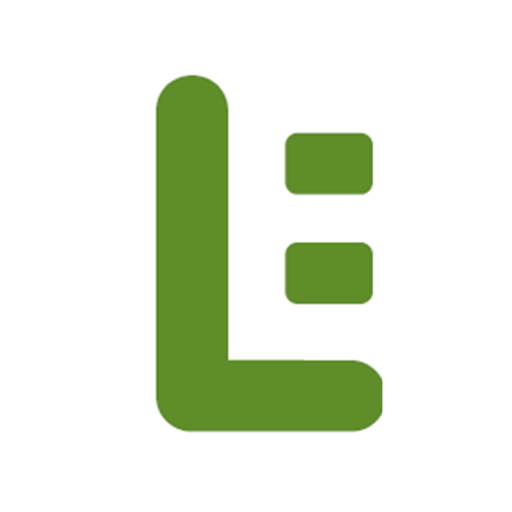
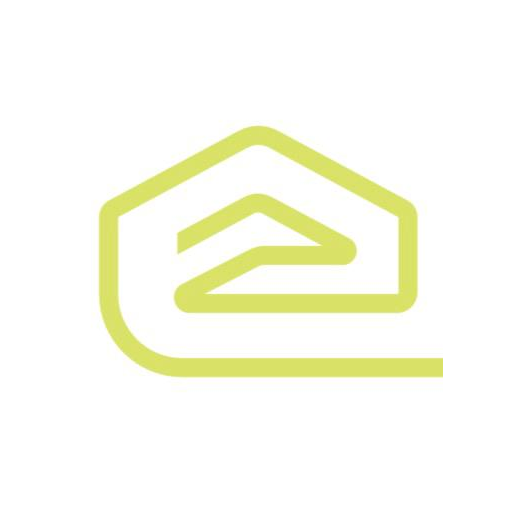
Improve project gallery and apply new brand assets

Changed region(s): [[0.1875, 0.125, 0.875, 0.8438]]

diff --git a/components/projects/project-detail-view.tsx b/components/projects/project-detail-view.tsx
@@ -4,7 +4,7 @@ import { useQuery, useMutation, useQueryClient } from '@tanstack/react-query';
 import { api } from '@/lib/api';
 import { useState, useRef } from 'react';
 import Link from 'next/link';
-import { ArrowLeft, Upload, FileText, ImageIcon, Users, Plus, Trash2, UserPlus, Package, Edit2, MapPin, Navigation } from 'lucide-react';
+import { ArrowLeft, Upload, FileText, ImageIcon, Users, Plus, Trash2, UserPlus, Package, Edit2, MapPin, Navigation, Download, Maximize2, X } from 'lucide-react';
 import { format, parseISO } from 'date-fns';
 import { de } from 'date-fns/locale';
 import toast from 'react-hot-toast';
@@ -18,6 +18,7 @@ interface ProjectNote {
 interface ProjectImage {
   id: string;
   url: string;
+  storagePath?: string | null;
 }
 
 interface ProjectMaterial {
@@ -42,6 +43,7 @@ export function ProjectDetailView({ projectId }: { projectId: string }) {
   const [isMemberModalOpen, setIsMemberModalOpen] = useState(false);
   const [isMaterialModalOpen, setIsMaterialModalOpen] = useState(false);
   const [editingMaterial, setEditingMaterial] = useState<ProjectMaterial | null>(null);
+  const [selectedImage, setSelectedImage] = useState<ProjectImage | null>(null);
   
   const { data: project, isLoading: projectLoading } = useQuery<Project>({ 
     queryKey: ['project', projectId], 
@@ -70,11 +72,12 @@ export function ProjectDetailView({ projectId }: { projectId: string }) {
   });
 
   const imageMutation = useMutation({
-    mutationFn: (url: string) => api.addProjectImage(projectId, url),
+    mutationFn: (file: File) => api.addProjectImage(projectId, file),
     onSuccess: () => {
       queryClient.invalidateQueries({ queryKey: ['project', projectId] });
       toast.success('Bild hochgeladen');
-    }
+    },
+    onError: (error: Error) => toast.error(`Fehler beim Hochladen: ${error.message}`),
   });
 
   const removeMemberMutation = useMutation({
@@ -106,13 +109,34 @@ export function ProjectDetailView({ projectId }: { projectId: string }) {
   const handleFileUpload = (e: React.ChangeEvent<HTMLInputElement>) => {
     const file = e.target.files?.[0];
     if (!file) return;
-    const reader = new FileReader();
-    reader.onload = (event) => {
-      if (event.target?.result) {
-        imageMutation.mutate(event.target.result as string);
-      }
-    };
-    reader.readAsDataURL(file);
+    imageMutation.mutate(file);
+    e.target.value = '';
+  };
+
+  const handleImageDownload = async (image: ProjectImage, index: number) => {
+    try {
+      const response = await fetch(image.url);
+      if (!response.ok) throw new Error('Das Bild konnte nicht geladen werden.');
+      const blob = await response.blob();
+      const extensionByType: Record<string, string> = {
+        'image/jpeg': 'jpg',
+        'image/png': 'png',
+        'image/webp': 'webp',
+        'image/gif': 'gif',
+      };
+      const extension = extensionByType[blob.type] || 'jpg';
+      const safeProjectName = project.name.replace(/[^a-z0-9äöüß_-]+/gi, '-').replace(/^-|-$/g, '') || 'auftrag';
+      const objectUrl = URL.createObjectURL(blob);
+      const anchor = document.createElement('a');
+      anchor.href = objectUrl;
+      anchor.download = `${safeProjectName}-bild-${index + 1}.${extension}`;
+      document.body.appendChild(anchor);
+      anchor.click();
+      anchor.remove();
+      window.setTimeout(() => URL.revokeObjectURL(objectUrl), 0);
+    } catch (error) {
+      toast.error(error instanceof Error ? error.message : 'Fehler beim Herunterladen.');
+    }
   };
 
   const handleEditMaterial = (material: ProjectMaterial) => {
@@ -341,6 +365,7 @@ export function ProjectDetailView({ projectId }: { projectId: string }) {
                 disabled={imageMutation.isPending}
                 className="p-2 text-slate-400 hover:text-blue-600 hover:bg-blue-50 rounded-lg transition-colors"
                 title="Bild hochladen"
+                aria-label="Bild hochladen"
               >
                 <Upload className="w-5 h-5" />
               </button>
@@ -360,10 +385,29 @@ export function ProjectDetailView({ projectId }: { projectId: string }) {
                 </div>
               ) : (
                 <div className="grid grid-cols-2 gap-3">
-                  {project.images.map((img: ProjectImage) => (
-                    <div key={img.id} className="relative aspect-square rounded-xl overflow-hidden border border-slate-200 bg-slate-50 group">
-                      {/* eslint-disable-next-line @next/next/no-img-element */}
-                      <img src={img.url} alt="Auftragsbild" className="w-full h-full object-cover group-hover:scale-105 transition-transform duration-300" />
+                  {project.images.map((img: ProjectImage, index: number) => (
+                    <div key={img.id} className="group relative aspect-square overflow-hidden rounded-xl border border-slate-200 bg-slate-50">
+                      <button
+                        type="button"
+                        onClick={() => setSelectedImage(img)}
+                        className="h-full w-full cursor-zoom-in"
+                        aria-label={`Auftragsbild ${index + 1} vergrößern`}
+                      >
+                        {/* eslint-disable-next-line @next/next/no-img-element */}
+                        <img src={img.url} alt={`Auftragsbild ${index + 1}`} className="h-full w-full object-cover transition-transform duration-300 group-hover:scale-105" />
+                        <span className="absolute inset-0 flex items-center justify-center bg-slate-950/0 text-white transition-colors group-hover:bg-slate-950/25">
+                          <Maximize2 className="h-6 w-6 opacity-0 transition-opacity group-hover:opacity-100" />
+                        </span>
+                      </button>
+                      <button
+                        type="button"
+                        onClick={() => handleImageDownload(img, index)}
+                        className="absolute right-2 top-2 rounded-lg bg-white/95 p-2 text-slate-700 shadow-sm transition-colors hover:bg-blue-600 hover:text-white"
+                        title="Bild herunterladen"
+                        aria-label={`Auftragsbild ${index + 1} herunterladen`}
+                      >
+                        <Download className="h-4 w-4" />
+                      </button>
                     </div>
                   ))}
                 </div>
@@ -397,6 +441,39 @@ export function ProjectDetailView({ projectId }: { projectId: string }) {
             setEditingMaterial(null);
           }}
         />
+      )}
+
+      {selectedImage && (
+        <div className="fixed inset-0 z-[70] flex items-center justify-center bg-slate-950/90 p-4" role="dialog" aria-modal="true" aria-label="Auftragsbild anzeigen">
+          <button
+            type="button"
+            onClick={() => setSelectedImage(null)}
+            className="absolute inset-0 cursor-zoom-out"
+            aria-label="Bildansicht schließen"
+          />
+          <div className="relative z-10 flex max-h-full max-w-6xl flex-col items-center gap-4">
+            {/* eslint-disable-next-line @next/next/no-img-element */}
+            <img src={selectedImage.url} alt="Auftragsbild in Großansicht" className="max-h-[82vh] max-w-full rounded-xl object-contain shadow-2xl" />
+            <div className="flex items-center gap-3">
+              <button
+                type="button"
+                onClick={() => handleImageDownload(selectedImage, Math.max(0, project.images.findIndex(image => image.id === selectedImage.id)))}
+                className="inline-flex items-center gap-2 rounded-lg bg-white px-4 py-2.5 text-[14px] font-semibold text-slate-800 shadow-sm hover:bg-slate-100"
+              >
+                <Download className="h-4 w-4" />
+                Herunterladen
+              </button>
+              <button
+                type="button"
+                onClick={() => setSelectedImage(null)}
+                className="inline-flex items-center gap-2 rounded-lg border border-white/20 bg-white/10 px-4 py-2.5 text-[14px] font-semibold text-white hover:bg-white/20"
+              >
+                <X className="h-4 w-4" />
+                Schließen
+              </button>
+            </div>
+          </div>
+        </div>
       )}
     </div>
   );

diff --git a/lib/api.ts b/lib/api.ts
@@ -64,12 +64,23 @@ export const api = {
     const { data: project, error: pError } = await supabase.from('projects').select('id, client_id, name').eq('id', id).single();
     if (pError) throw pError;
     const { data: notes } = await supabase.from('project_notes').select('*').eq('project_id', id).order('created_at', { ascending: false });
-    const { data: images } = await supabase.from('project_images').select('*').eq('project_id', id);
+    const { data: images, error: imagesError } = await supabase.from('project_images').select('*').eq('project_id', id).order('created_at', { ascending: false });
+    if (imagesError) throw imagesError;
+    const resolvedImages = await Promise.all((images || []).map(async image => {
+      const isDirectUrl = image.url.startsWith('data:') || image.url.startsWith('http://') || image.url.startsWith('https://');
+      if (isDirectUrl) return { ...image, storagePath: null };
+
+      const { data: signedUrl, error: signedUrlError } = await supabase.storage
+        .from('project-images')
+        .createSignedUrl(image.url, 60 * 60);
+      if (signedUrlError) throw signedUrlError;
+      return { ...image, url: signedUrl.signedUrl, storagePath: image.url };
+    }));
     return { 
       ...project, 
       clientId: project.client_id,
       notes: notes?.map(n => ({ id: n.id, text: n.text, createdAt: n.created_at })) || [], 
-      images: images || [] 
+      images: resolvedImages,
     };
   },
 
@@ -101,9 +112,36 @@ export const api = {
     return data;
   },
 
-  addProjectImage: async (projectId: string, url: string) => {
-    const { data, error } = await supabase.from('project_images').insert([{ project_id: projectId, url }]).select().single();
-    if (error) throw error;
+  addProjectImage: async (projectId: string, file: File) => {
+    const allowedTypes = ['image/jpeg', 'image/png', 'image/webp', 'image/gif'];
+    if (!allowedTypes.includes(file.type)) {
+      throw new Error('Bitte wählen Sie ein Bild im Format JPG, PNG, WebP oder GIF aus.');
+    }
+    if (file.size > 10 * 1024 * 1024) {
+      throw new Error('Das Bild darf maximal 10 MB groß sein.');
+    }
+
+    const extensionByType: Record<string, string> = {
+      'image/jpeg': 'jpg',
+      'image/png': 'png',
+      'image/webp': 'webp',
+      'image/gif': 'gif',
+    };
+    const storagePath = `${projectId}/${crypto.randomUUID()}.${extensionByType[file.type]}`;
+    const { error: uploadError } = await supabase.storage
+      .from('project-images')
+      .upload(storagePath, file, { cacheControl: '3600', contentType: file.type, upsert: false });
+    if (uploadError) throw uploadError;
+
+    const { data, error } = await supabase
+      .from('project_images')
+      .insert([{ project_id: projectId, url: storagePath }])
+      .select()
+      .single();
+    if (error) {
+      await supabase.storage.from('project-images').remove([storagePath]);
+      throw error;
+    }
     return data;
   },
 

diff --git a/app/layout.tsx b/app/layout.tsx
@@ -11,6 +11,14 @@ export const metadata: Metadata = {
   title: 'Elektro Loidl',
   description: 'Zeiterfassung und Projektmanagement für Elektro Loidl',
   manifest: '/manifest.json',
+  icons: {
+    icon: [
+      { url: '/favicon.ico', sizes: 'any' },
+      { url: '/favicon-32.png', type: 'image/png', sizes: '32x32' },
+      { url: '/favicon-16.png', type: 'image/png', sizes: '16x16' },
+    ],
+    apple: [{ url: '/apple-touch-icon.png', sizes: '180x180', type: 'image/png' }],
+  },
   appleWebApp: {
     capable: true,
     statusBarStyle: 'default',
@@ -30,7 +38,7 @@ export default function RootLayout({children}: {children: React.ReactNode}) {
   return (
     <html lang="de" className={inter.className} suppressHydrationWarning>
       <head>
-        <link rel="apple-touch-icon" href="/icon-192.png" />
+        <link rel="apple-touch-icon" href="/apple-touch-icon.png" />
       </head>
       <body className="bg-slate-50 dark:bg-slate-950 text-slate-900 dark:text-slate-100 transition-colors">
         <Providers>

diff --git a/components/layout/sidebar.tsx b/components/layout/sidebar.tsx
@@ -53,9 +53,9 @@ export function Sidebar({ isOpen, onClose }: { isOpen?: boolean; onClose?: () =>
           <div className="flex items-center">
             {/* eslint-disable-next-line @next/next/no-img-element */}
             <img 
-              src="/logo.png" 
+              src="/logo_neu.png"
               alt="Firmenlogo" 
-              className="h-8 w-auto max-w-[160px] object-contain dark:invert"
+              className="h-12 w-auto max-w-[175px] rounded-md bg-white object-contain p-1"
               onError={(e) => {
                 e.currentTarget.style.display = 'none';
                 e.currentTarget.insertAdjacentHTML('afterend', '<div class="h-8 flex items-center text-[20px] font-extrabold text-slate-300 dark:text-slate-700">LOGO</div>');

diff --git a/app/login/page.tsx b/app/login/page.tsx
@@ -12,9 +12,9 @@ export default function LoginPage() {
           <div className="mb-6">
             {/* eslint-disable-next-line @next/next/no-img-element */}
             <img 
-              src="/logo.png" 
+              src="/logo_neu.png"
               alt="Elektro Loidl Logo"
-              className="h-12 w-auto object-contain dark:invert"
+              className="h-20 w-auto max-w-full rounded-md bg-white object-contain p-1"
               onError={(e) => {
                 e.currentTarget.style.display = 'none';
                 e.currentTarget.insertAdjacentHTML('afterend', '<div class="h-12 w-12 bg-blue-600 rounded-xl flex items-center justify-center"><span class="text-white font-bold text-xl">V</span></div>');
